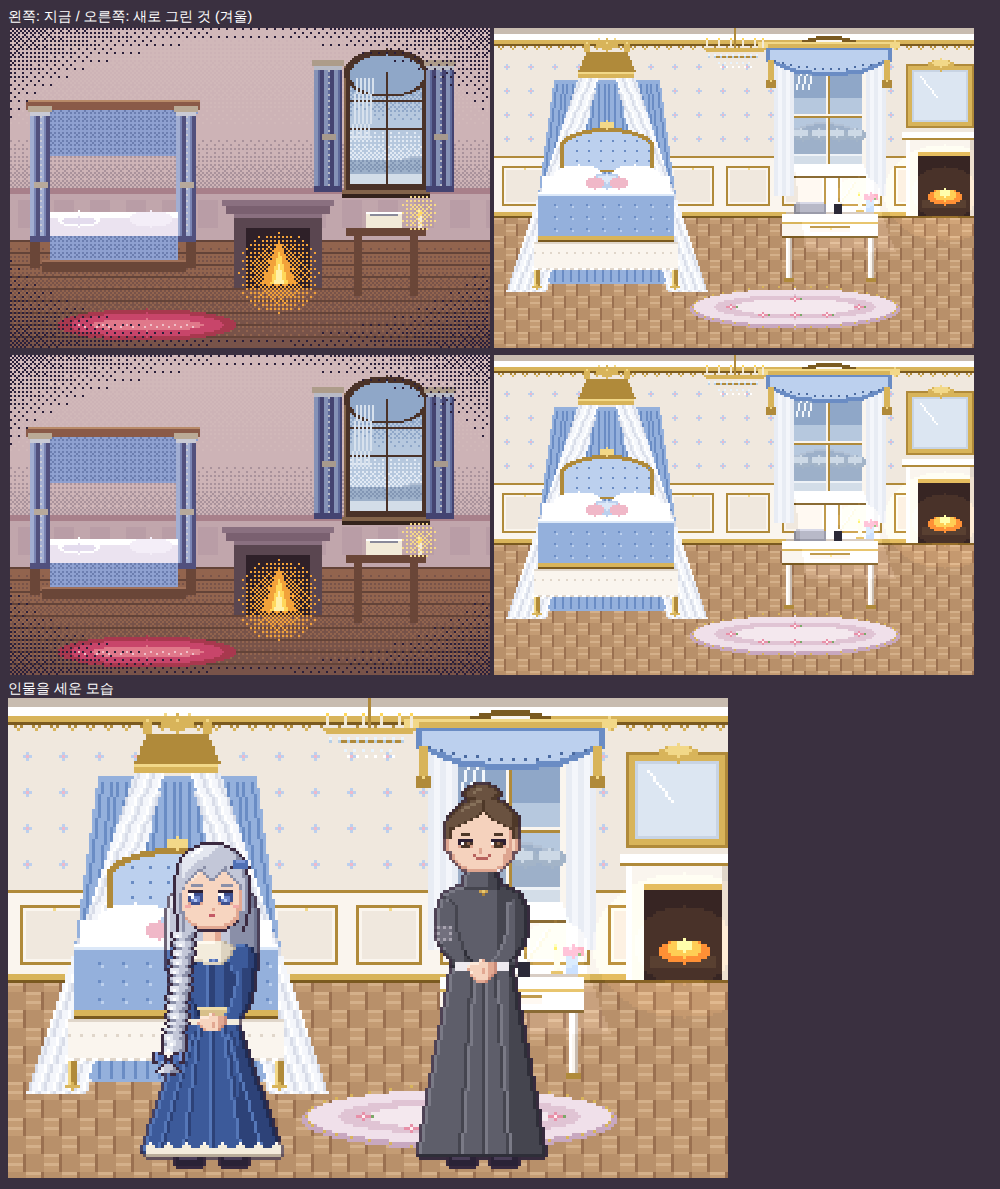
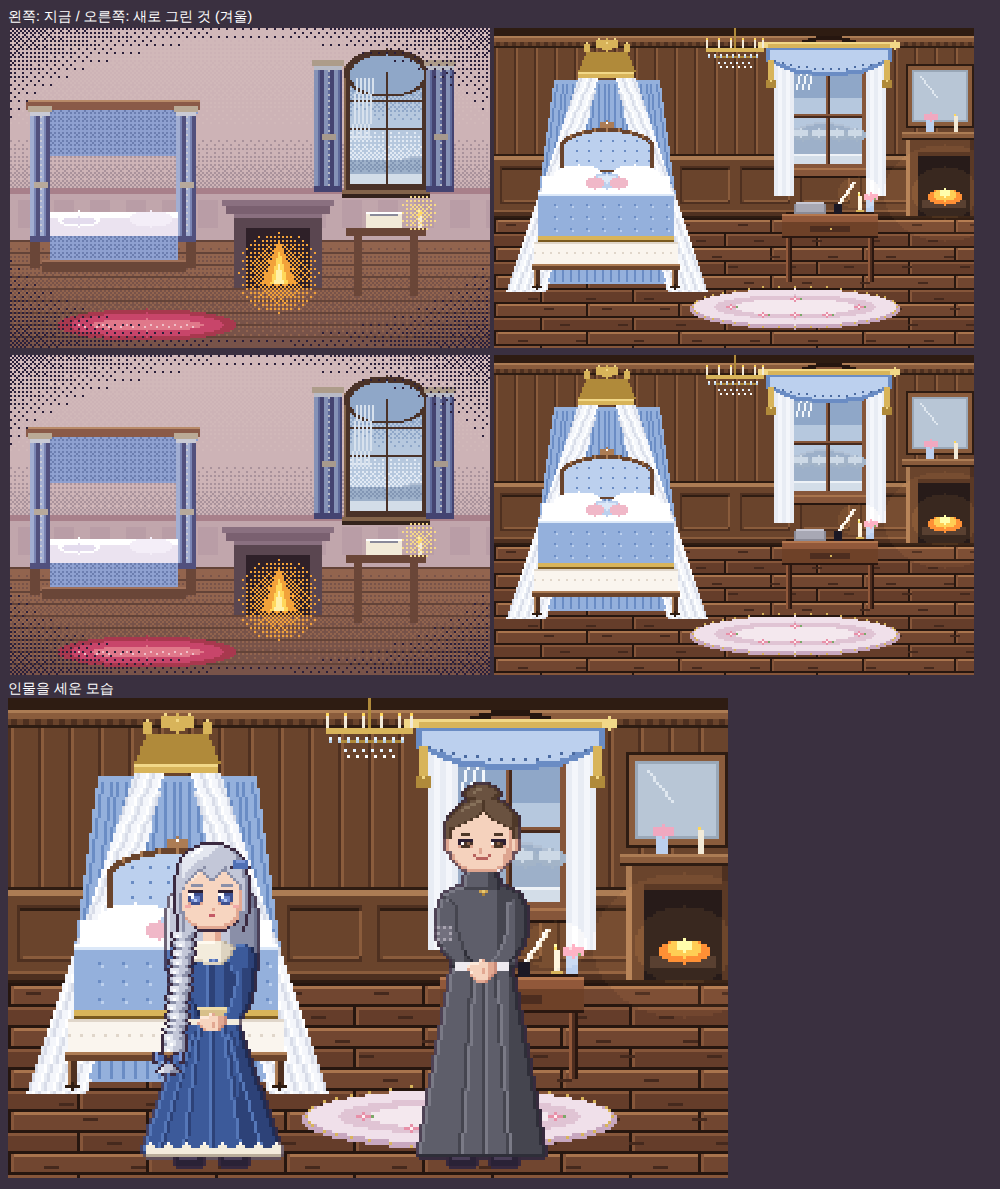
새 그림체 배경: 침실을 나무 벽·바닥·가구 + 로판풍 천으로 (wip)
Claude-Session: https://claude.ai/code/session_01NzQUDDCoPt1Z4eH1vzoWiG

diff --git a/wip/bg2.js b/wip/bg2.js
@@ -531,3 +531,82 @@ function bedroom4(o,P){
   // 창빛
   const x=o.x; x.save(); x.globalAlpha=.08; x.globalCompositeOperation='lighter'; o.poly([[150,68],[184,68],[200,112],[156,112]],'#c8d8ff'); x.restore();
 }
+
+// 침실(최종): 나무 벽·나무 바닥·나무 가구 + 천(휘장·커튼·침구·양탄자)만 로판풍
+function bedroom5(o,P){
+  const R=(x,y,w,h,c)=>o.r(x,y,w,h,c), px=(x,y,c)=>o.p(x,y,c);
+  const CR=['#c8bcb0','#e0d6ca','#f0e8de','#faf5ee','#ffffff'];    // 크림
+  const SB=['#4a6aa0','#6a8cc4','#94b0dc','#bcd0ee','#dce8f8'];    // 하늘색
+  const G=['#7a5a20','#b08a3a','#d8b45a','#f2d888'];               // 금
+  const SH=['#d8dce8','#e8ecf4','#f4f6fb','#ffffff'];              // 얇은 휘장
+  const WB=['#2e1c12','#4e3020','#6a442c','#8a5c3c','#ac7c54'];    // 따뜻한 나무
+  // 벽: 나무 판벽 (세로 판자 + 아래 액자 판넬)
+  R(0,0,240,96,WB[2]);
+  for(let X=0;X<240;X+=10){ R(X,10,1,54,WB[1]); R(X+1,10,1,54,WB[3]); }
+  R(0,0,240,4,WB[0]); R(0,4,240,3,WB[3]); R(0,4,240,1,WB[4]); for(let X=1;X<240;X+=4) R(X,7,2,2,WB[1]); R(0,9,240,1,WB[0]);
+  R(0,63,240,1,WB[0]); R(0,64,240,2,WB[4]); R(0,66,240,26,WB[2]);
+  for(let X=3;X<240;X+=30){ R(X,69,25,19,WB[1]); R(X+1,70,23,17,WB[2]); R(X+1,70,23,1,WB[0]); R(X+2,86,22,1,WB[3]); R(X+24,71,1,15,WB[3]); }
+  R(0,91,240,1,WB[3]); R(0,92,240,2,WB[1]); R(0,94,240,1,WB[0]);
+  plankFloor(o,95,WD2);
+  // 창: 얇은 흰 커튼 + 하늘색 휘장(스와그)과 술
+  frameWin(o,150,18,34,50,P,{arch:true});
+  for(let i=0;i<10;i++){ const c=i%4<2?SH[1]:SH[2]; R(140+i,12,1,72,c); R(184+i+2,12,1,72,c); }
+  o.poly([[136,10],[198,10],[198,16],[184,22],[167,24],[150,22],[136,16]],SB[1]); o.poly([[138,11],[196,11],[196,15],[183,20],[167,22],[151,20],[138,15]],SB[3]);
+  for(let X=140;X<196;X+=4) px(X,16+Math.round(4*Math.sin((X-138)/58*Math.PI)),SB[0]);
+  [[138,16],[196,16]].forEach(t=>{ R(t[0]-1,t[1],3,10,G[2]); R(t[0]-2,t[1]+10,5,4,G[1]); px(t[0],t[1]+10,G[3]); });
+  R(134,7,66,3,G[2]); R(134,7,66,1,G[3]); o.ell(134,8,2,2,G[3]); o.ell(200,8,2,2,G[3]);
+  // 나무 책상 (창가)
+  const DT=['#2a1710','#4d2d1f','#6e4128','#91583a','#b4774f'];
+  R(146,92,44,1,DT[0]); R(144,93,48,4,DT[3]); R(144,93,48,1,DT[4]); R(144,97,48,7,DT[2]); R(144,104,48,1,DT[0]);
+  R(158,99,20,3,DT[1]); px(168,100,G[2]);
+  [[146,105],[187,105]].forEach(l=>{ R(l[0],l[1],3,22,DT[1]); R(l[0],l[1],1,22,DT[3]); R(l[0]+2,l[1],1,22,DT[0]); });
+  R(150,88,16,5,'#8a8a96'); R(151,87,14,5,'#a8a8b4'); R(151,87,14,1,'#c8c8d4');
+  R(170,88,4,5,'#1b1824'); o.line(172,87,179,77,'#ffffff'); o.line(173,87,180,77,'#e8e0d0');
+  R(182,84,2,8,'#f2ead8'); px(182,83,'#ffd75a'); px(182,82,'#fff0a8'); R(181,91,4,1,G[2]);
+  R(186,86,4,6,SB[3]); o.ell(188,84,3,2,'#f0a8c0'); px(187,83,'#ffd0dc'); px(190,85,'#7aa868');
+  // 나무 벽난로 틀 + 나무 거울 (오른쪽 끝)
+  R(206,18,34,32,WB[0]); R(207,19,32,30,WB[3]); R(209,21,28,26,'#9aa8b8'); R(210,22,26,24,'#b8c6d6'); o.line(213,24,221,34,'#e0e8f0');
+  R(204,52,36,4,WB[3]); R(204,52,36,1,WB[4]); R(204,55,36,1,WB[0]); R(206,56,34,38,WB[2]); R(206,56,2,38,WB[4]); R(238,56,2,38,WB[1]);
+  R(212,64,26,30,'#1a1214'); R(214,86,22,4,'#3a2a26'); o.ell(225,84,8,4,'#e07a2a'); o.ell(225,83,5,3,'#f6b84a'); o.ell(225,82,2,2,'#ffe8a0');
+  R(212,62,26,2,WB[1]); R(216,46,4,6,SB[3]); o.ell(218,44,3,2,'#f0a8c0'); R(230,44,2,8,'#f2ead8'); px(230,43,'#ffd75a');
+  // 크리스털 샹들리에
+  o.line(120,0,120,10,G[1]); R(106,10,29,2,G[2]); R(110,14,21,1,G[1]);
+  [106,112,118,124,130,134].forEach(x=>{ R(x,6,1,4,'#f2ead8'); px(x,5,'#ffd75a'); });
+  for(let x=107;x<134;x+=3){ px(x,13,'#e8f4ff'); px(x,14,'#b8d0e8'); } for(let x=112;x<130;x+=3){ px(x,17,'#e8f4ff'); px(x+1,19,'#ffffff'); }
+  // 침대: 금관(코로나)에서 흘러내리는 얇은 휘장
+  const bx=56;   // 침대 가운데
+  // 휘장 뒤판 (하늘색 비단)
+  o.poly([[bx-26,26],[bx+26,26],[bx+40,128],[bx-40,128]],SB[2]);
+  for(let i=-38;i<=38;i+=4) o.line(bx+Math.round(i*.66),28,bx+i,126,SB[1]);
+  // 금관
+  o.poly([[bx-14,22],[bx+14,22],[bx+10,12],[bx-10,12]],G[1]); R(bx-14,22,28,3,G[2]); R(bx-14,22,28,1,G[3]);
+  [[bx-10,12],[bx-4,10],[bx+4,10],[bx+10,12]].forEach(c=>{ R(c[0]-1,c[1]-4,3,4,G[2]); px(c[0],c[1]-5,G[3]); });
+  o.ell(bx,8,3,3,G[2]); px(bx,7,G[3]);
+  // 얇은 휘장 (양쪽으로 흘러내려 묶임)
+  const drape=(dir)=>{ for(let y=25;y<132;y++){ const t=(y-25)/107; const xo=Math.round(dir*(14+t*36)), w=Math.round(10+t*10 - (y>78&&y<86?6:0));
+      for(let i=0;i<w;i++){ const x=bx+xo+(dir>0?-i:i)-(dir>0?0:0); const ph=(i+Math.round(y/9))%5; o.p(x,y,ph<2?SH[2]:ph<3?SH[3]:ph<4?SH[1]:SH[0]); } }
+    const ty=82, tx=bx+Math.round(dir*(14+(ty-25)/107*36)); R(tx-(dir>0?8:0),ty,8,3,G[2]); R(tx-(dir>0?8:0),ty,8,1,G[3]); };
+  drape(-1); drape(1);
+  // 머리판 (금 소용돌이 + 하늘색 누빔)
+  for(let k=0;k<24;k++){ const d=Math.round(Math.sqrt(1-(k/24)**2)*10); R(bx-k,60-d,1,d+12,WB[2]); R(bx+k,60-d,1,d+12,WB[2]); if(k%6===0){ R(bx-k,60-d,1,2,WB[4]); R(bx+k,60-d,1,2,WB[4]); } }
+  for(let k=0;k<22;k++){ const d=Math.round(Math.sqrt(1-(k/22)**2)*9); R(bx-k,61-d,1,d+10,SB[3]); R(bx+k,61-d,1,d+10,SB[3]); }
+  for(let yy=56;yy<70;yy+=5) for(let xx=bx-18;xx<=bx+18;xx+=6) px(xx+((yy/5)%2?3:0),yy,SB[1]);
+  o.ell(bx,48,3,2,WB[4]); px(bx,47,'#ffffff');
+  // 매트리스 + 이불(누빔, 금테) + 레이스 스커트
+  R(bx-32,74,64,10,CR[4]); R(bx-32,74,64,1,'#ffffff');
+  o.ell(bx-14,73,11,5,CR[4]); o.ell(bx+14,73,11,5,CR[4]); o.ell(bx-14,72,8,3,'#ffffff'); o.ell(bx+14,72,8,3,'#ffffff');   // 큰 베개
+  o.ell(bx,76,7,4,SB[3]); o.ell(bx,75,5,2,SB[4]); o.ell(bx-6,77,4,3,'#f0b8c8'); o.ell(bx+6,77,4,3,'#f0b8c8');            // 작은 쿠션
+  R(bx-34,82,68,26,SB[2]); R(bx-34,82,68,2,SB[4]); R(bx-34,82,68,1,'#ffffff');
+  for(let yy=88;yy<106;yy+=6) for(let xx=bx-30;xx<bx+32;xx+=8){ px(xx+((yy/6)%2?4:0),yy,SB[1]); px(xx+((yy/6)%2?4:0)+1,yy+1,SB[3]); }
+  R(bx-34,104,68,2,G[2]); R(bx-34,106,68,1,G[0]);
+  for(let X=bx-36;X<bx+36;X++){ const yy=108+((X%4)<2?0:1); R(X,yy-1,1,14-(yy-108),CR[3]); px(X,120,(X%4<2)?CR[4]:CR[1]); if(X%4===0) px(X,112,CR[1]); }
+  R(bx-36,107,72,1,CR[1]);
+  [[bx-36,121],[bx+33,121]].forEach(l=>{ R(l[0],l[1],3,8,WB[1]); R(l[0],l[1],1,8,WB[4]); o.ell(l[0]+1,l[1]+8,2,1,WB[0]); });
+  R(bx-37,118,74,3,WB[2]); R(bx-37,118,74,1,WB[4]);
+  // 둥근 꽃무늬 양탄자
+  o.ell(150,140,52,10,'#c8a8c0'); o.ell(150,139,50,9,'#f0e0ea'); o.ell(150,139,40,6,'#e0c4d4'); o.ell(150,139,30,4,'#f4e8ee');
+  [[118,139],[134,143],[150,135],[166,143],[182,139],[150,143]].forEach(f=>{ o.ell(f[0],f[1],2,1,'#e890a8'); px(f[0],f[1],'#fff0f4'); px(f[0]+3,f[1],'#7aa868'); });
+  for(let k=0;k<40;k++){ const a=k/40*Math.PI*2; px(150+Math.round(Math.cos(a)*51),139+Math.round(Math.sin(a)*10),G[2]); }
+  warmGlow(o,225,82,[[30,.05],[16,.07]]); warmGlow(o,182,82,[[10,.06]]);
+
+}

diff --git a/wip/bg_view.js b/wip/bg_view.js
@@ -6,7 +6,7 @@ const fs=require('fs'); const SP=__dirname;
   await p.setViewport({width:1000,height:700});
   await p.goto('file://'+require('path').resolve(__dirname,'../dist/game.html'));
   const places=(process.argv[3]||'exterior,hall,schoolroom').split(',');
-  const NEW={exterior:'exterior3',hall:'hall3',schoolroom:'school3',study:'study2',bedroom:'bedroom4',dining:'dining3',kitchen:'kitchen3',orchard:'orchard2',carriage:'carriage2',corridor:'corridor2',office:'office2'};
+  const NEW={exterior:'exterior3',hall:'hall3',schoolroom:'school3',study:'study2',bedroom:'bedroom5',dining:'dining3',kitchen:'kitchen3',orchard:'orchard2',carriage:'carriage2',corridor:'corridor2',office:'office2'};
   const season=process.argv[4]||'늦가을';
   const old=await p.evaluate((pl,s)=>pl.map(k=>{ try{ return bgCanvas(k,s).toDataURL(); }catch(e){ return ''; } }),places,season);
   for(const f of ['cel.js','study2.js','ade2.js','more2.js','more3.js','bg2.js']) await p.addScriptTag({content:fs.readFileSync(SP+'/'+f,'utf8')});
